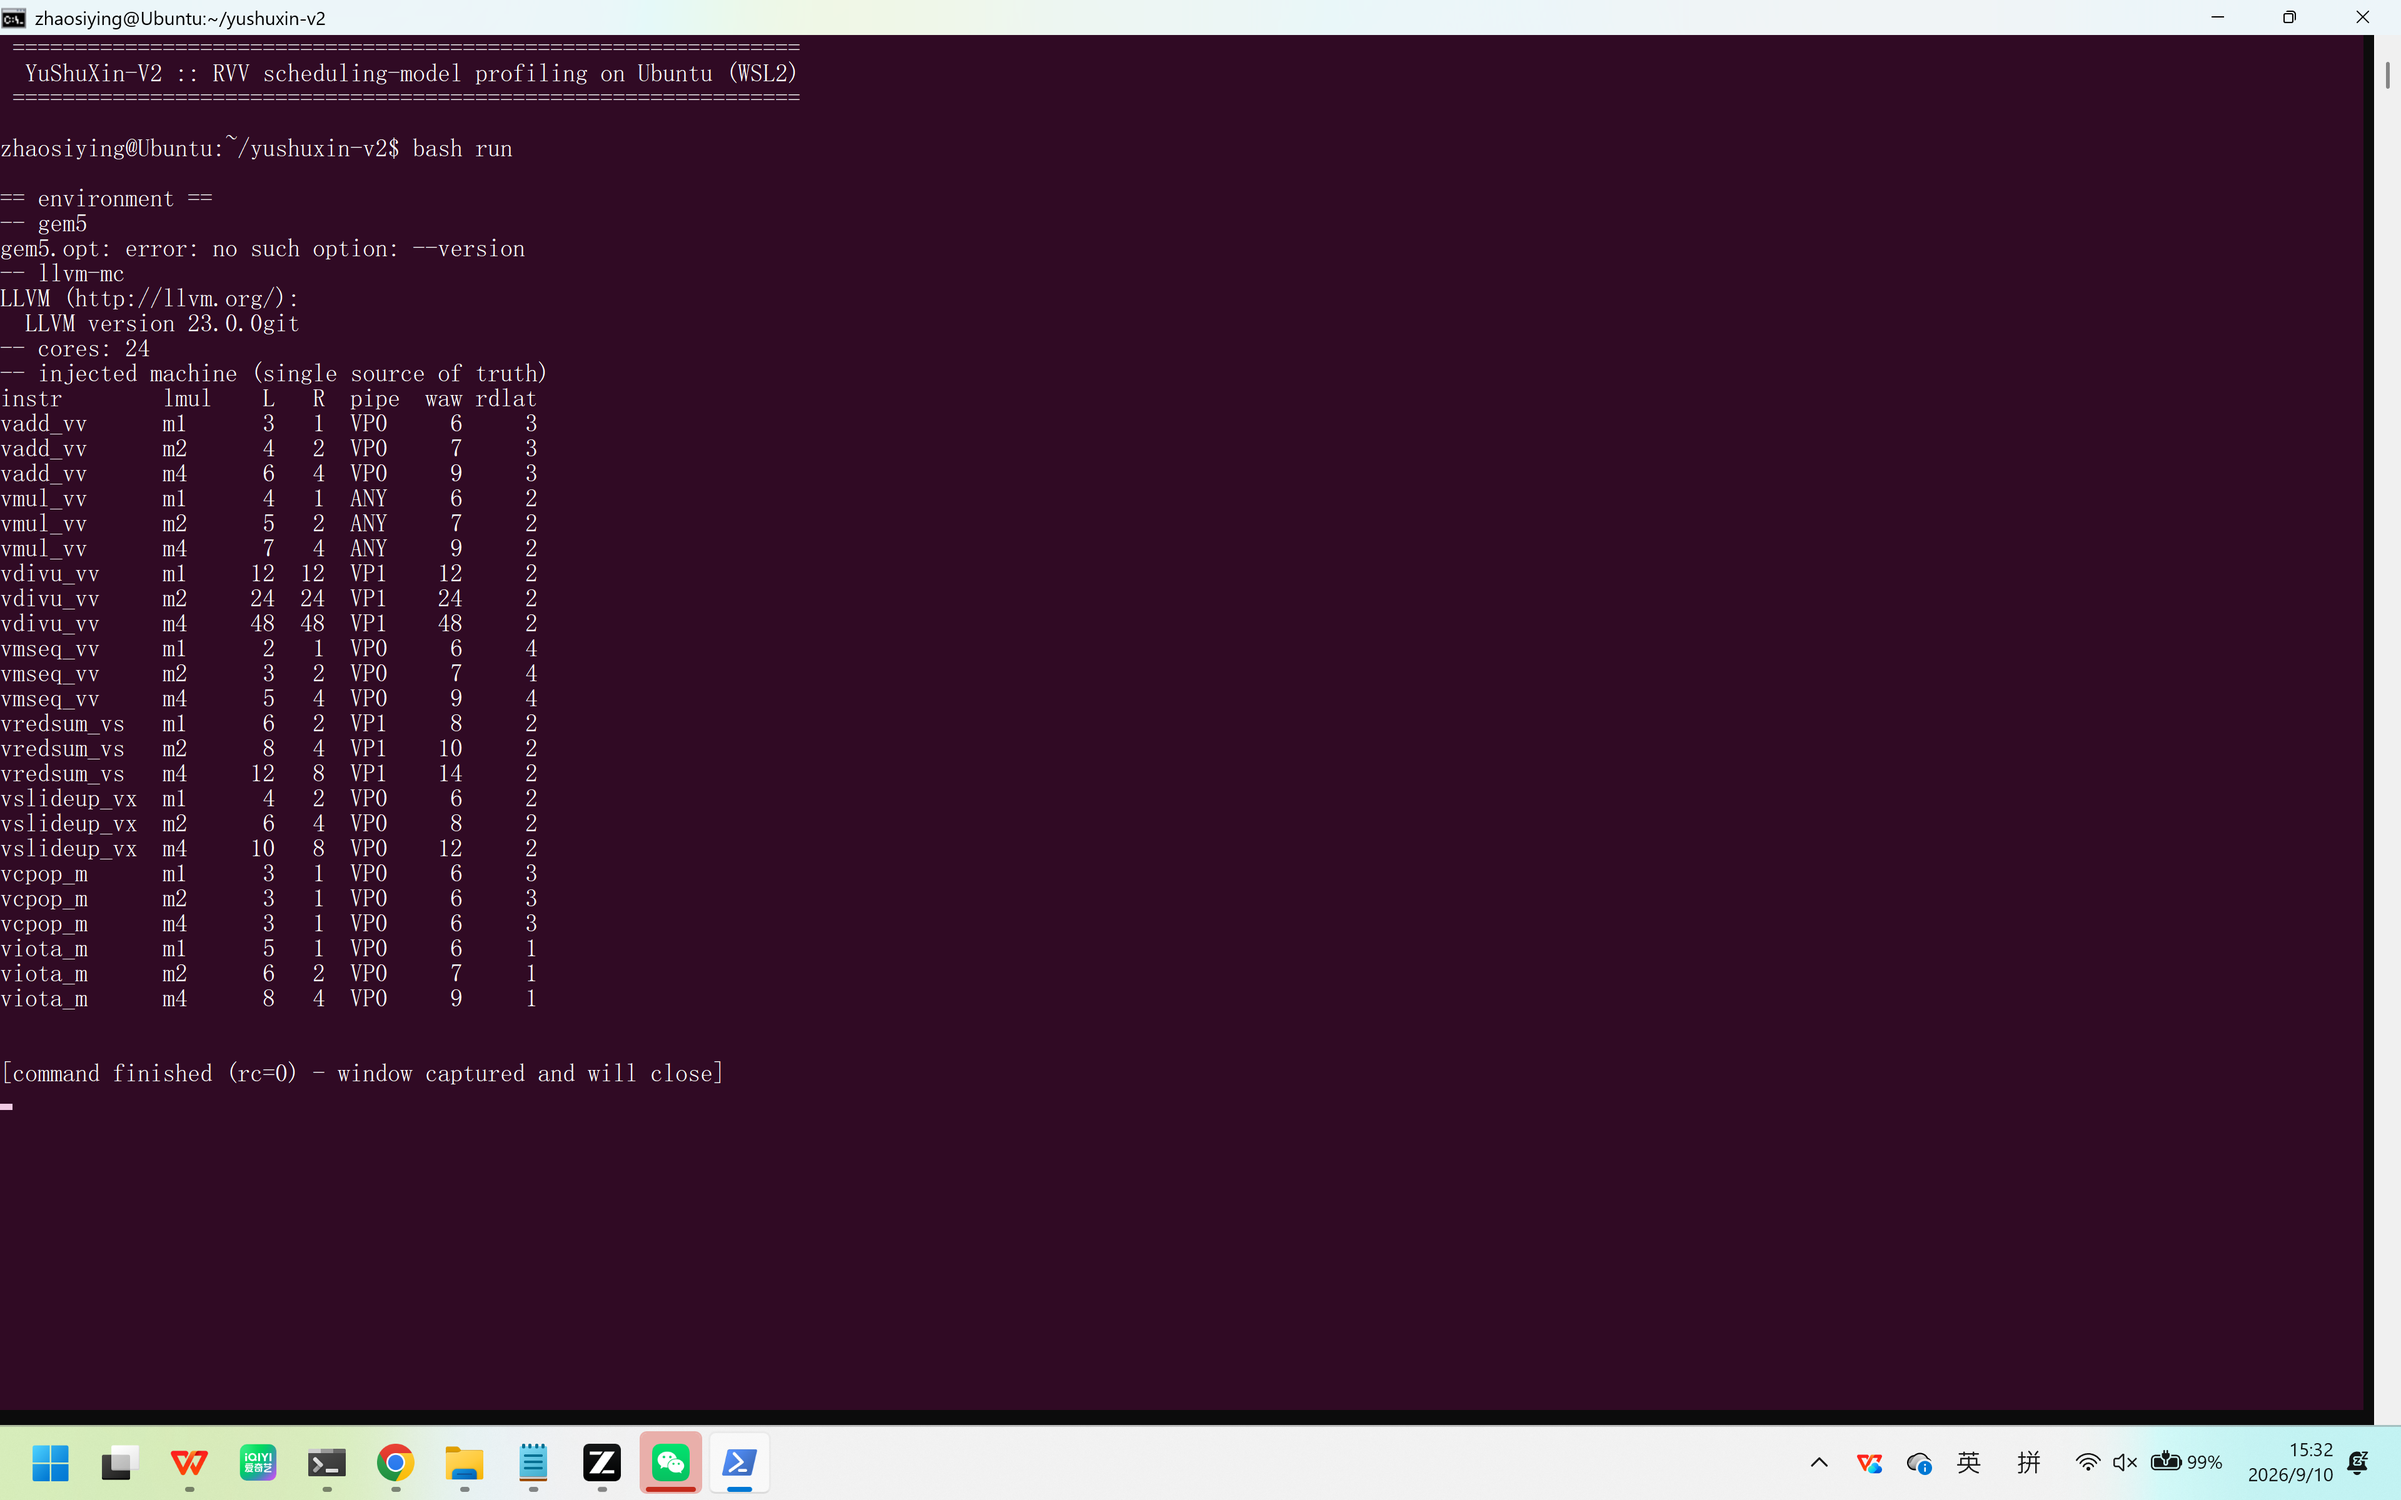
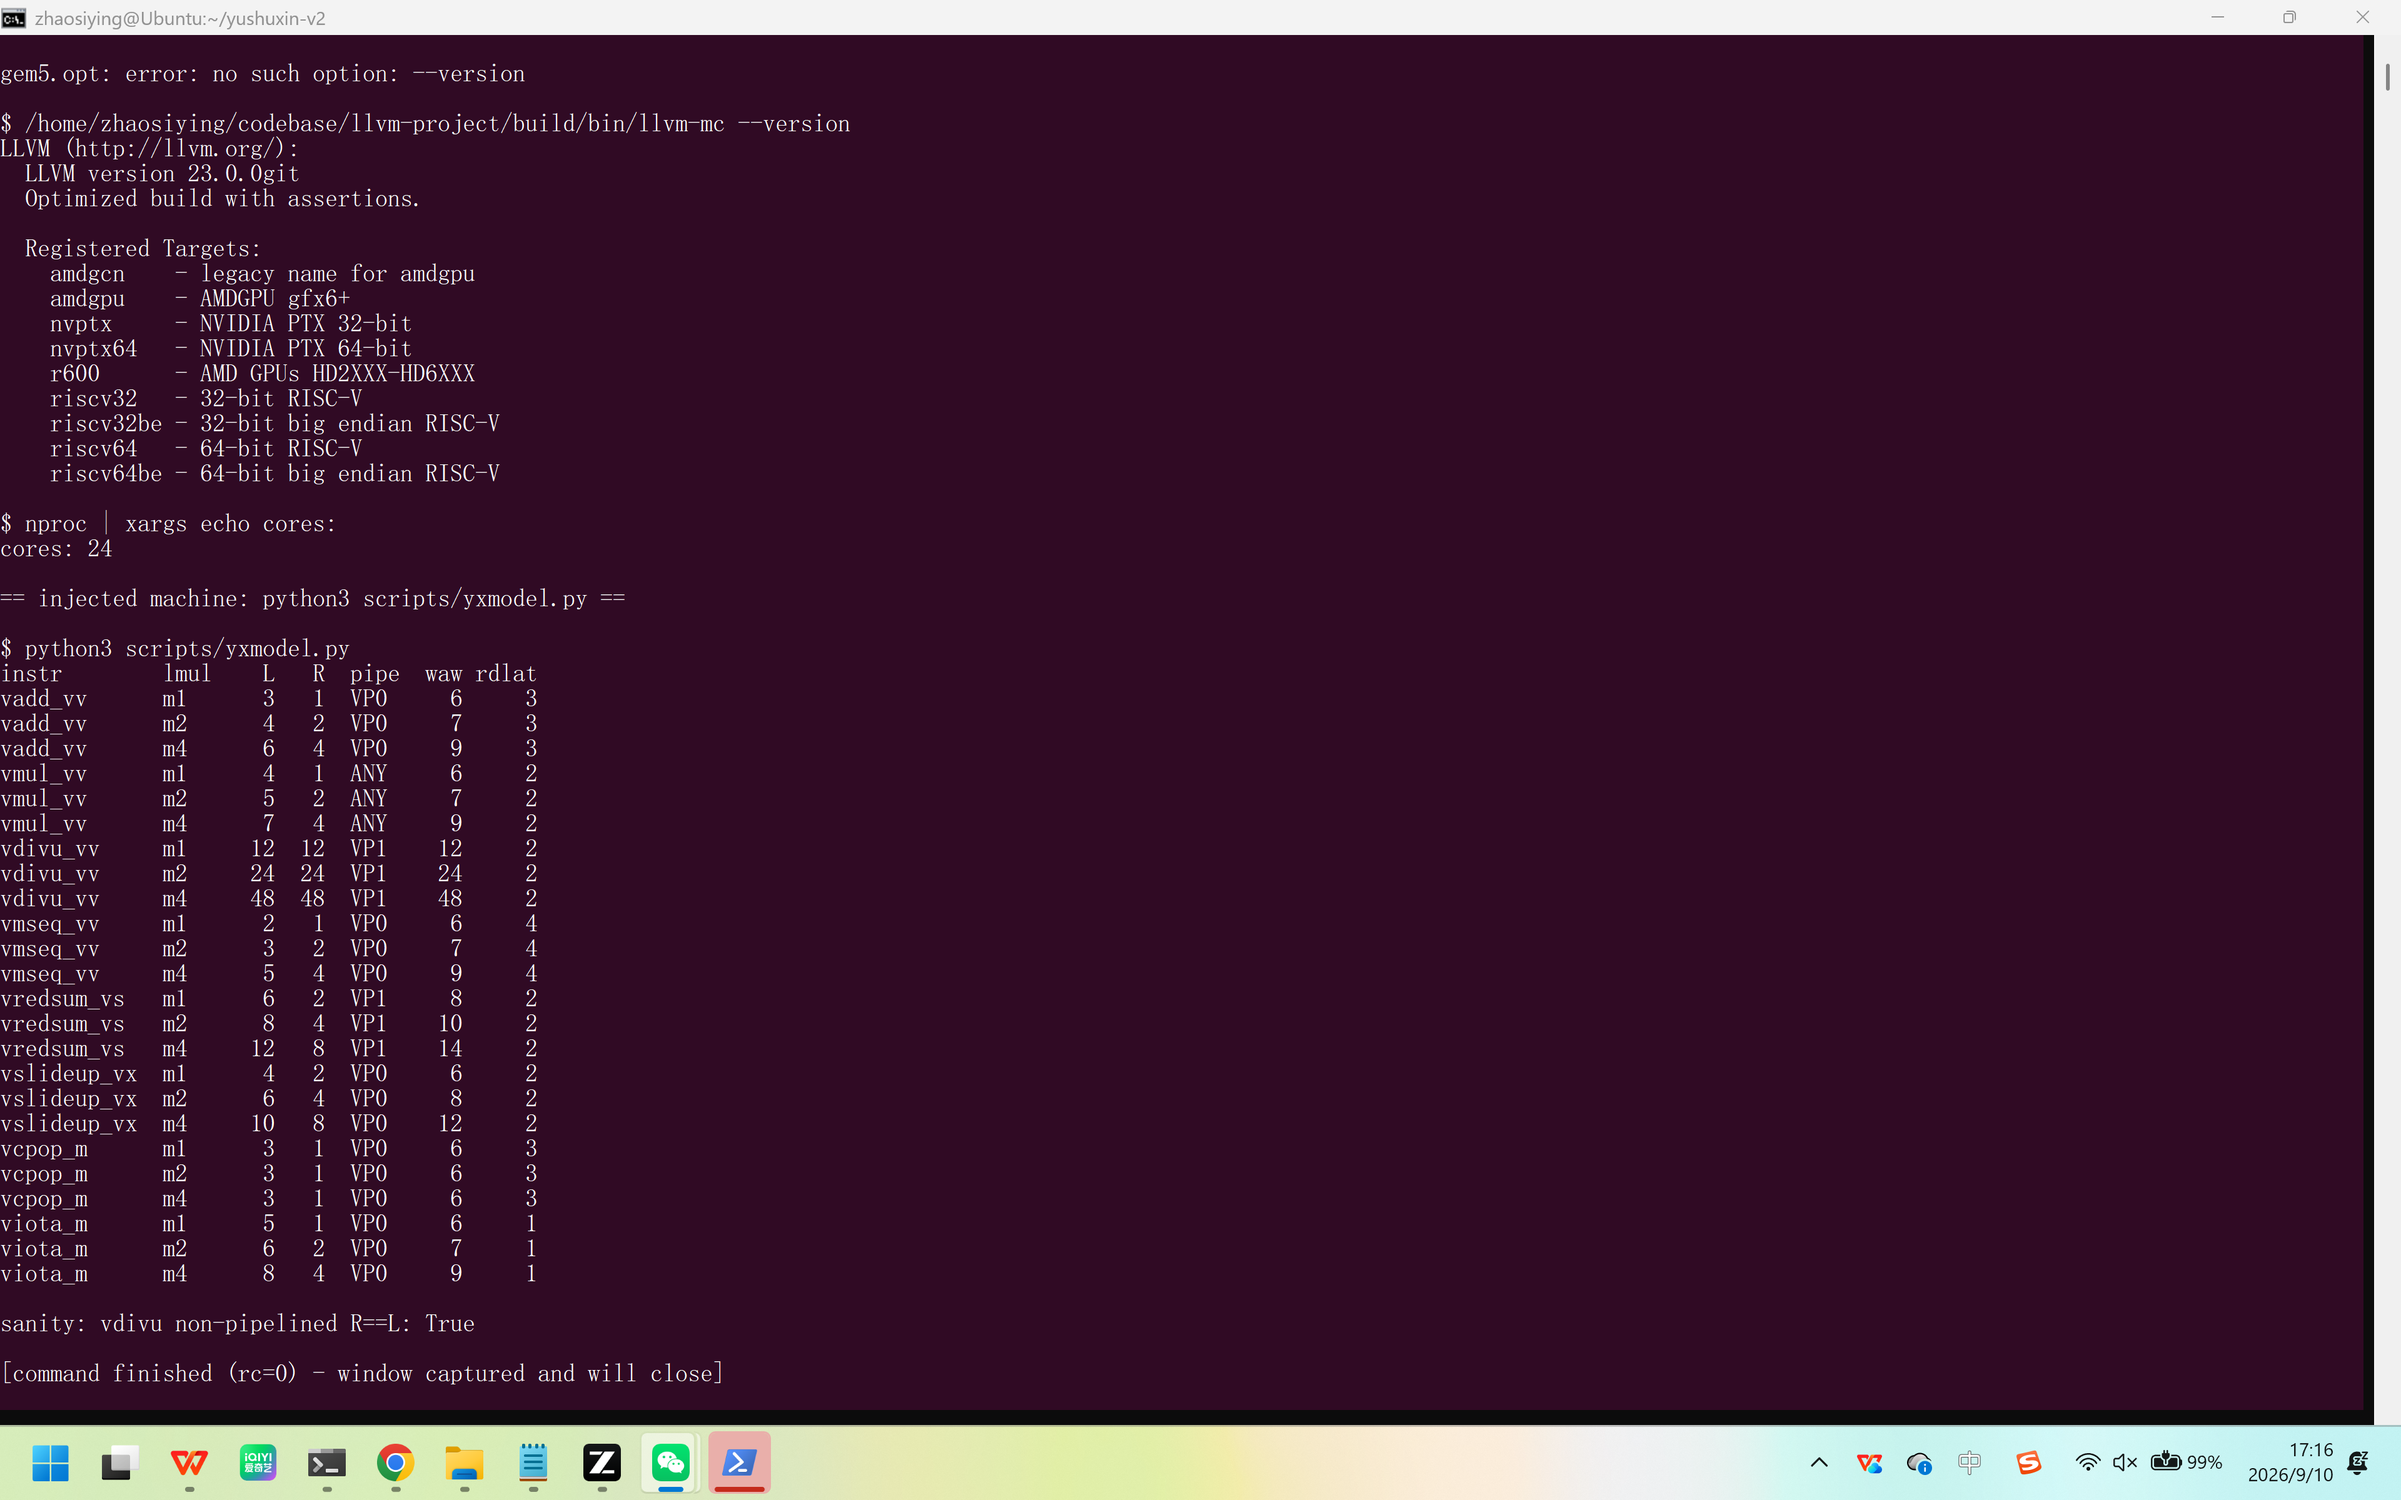
shots: re-capture all 12 with '$ cmd' echo (full llvm-mca command line visible); fix shot_mca conpty scroll (short -instruction-tables output); add e4/e7 matrix scripts; sync td header comment (MicroOpBufferSize=1)

diff --git a/scripts/e7_matrix.py b/scripts/e7_matrix.py
@@ -1,0 +1,30 @@
+#!/usr/bin/env python3
+"""Print the E7 36-pair mixed-stream verdict matrix (slope per pair @m1)."""
+import glob, json
+from collections import defaultdict
+
+mix = defaultdict(list)
+for f in sorted(glob.glob('experiments/e07-*-m1-*/trace.json')):
+    t = json.load(open(f)); m = t['meta']; e = t['entries']
+    if any(x['cycle'] is None for x in e):
+        continue
+    mix[(m['a'], m['b'])].append((m['pairs'], e[-1]['cycle'] - e[0]['cycle']))
+INS = ["vadd_vv", "vmul_vv", "vdivu_vv", "vmseq_vv",
+       "vredsum_vs", "vslideup_vx", "vcpop_m", "viota_m"]
+R = {'vadd_vv': 1, 'vmul_vv': 1, 'vdivu_vv': 12, 'vmseq_vv': 4,
+     'vredsum_vs': 2, 'vslideup_vx': 4, 'vcpop_m': 1, 'viota_m': 1}
+print(f"{'':>8}" + "".join(f"{c[:7]:>9}" for c in INS))
+for a in INS:
+    row = f"{a[:7]:>8}"
+    for b in INS:
+        v = mix.get((a, b))
+        if not v:
+            row += f"{'-':>9}"; continue
+        p, d = v[0]
+        slope = d / p
+        par = slope <= max(R[a], R[b]) + 0.5
+        ser = slope >= R[a] + R[b] - 0.5
+        tag = 'P' if par and not ser else ('S' if ser else 'm')
+        row += f"{slope:>7.1f}{tag}"
+    print(row)
+print("\nP=parallel(max R)  S=serial(Ra+Rb)  m=partial")

diff --git a/scripts/e4_matrix.py b/scripts/e4_matrix.py
@@ -1,0 +1,21 @@
+#!/usr/bin/env python3
+"""Print the E4 cross-class RAW matrix (dep - ctrl) at m1 from real traces."""
+import glob, json, sys
+from collections import defaultdict
+
+k0 = defaultdict(dict)
+for f in sorted(glob.glob('experiments/e04-*-m1-k0-*/trace.json')):
+    t = json.load(open(f)); m = t['meta']; e = t['entries']
+    if any(x['cycle'] is None for x in e):
+        continue
+    k0[(m['producer'], m['consumer'])]['ctrl' if m['control'] else 'dep'] = \
+        e[-1]['cycle'] - e[0]['cycle']
+INS = ["vadd_vv", "vmul_vv", "vdivu_vv", "vmseq_vv",
+       "vredsum_vs", "vslideup_vx", "vcpop_m", "viota_m"]
+print("        " + "".join(f"{c[:7]:>9}" for c in INS))
+for p in INS:
+    row = f"{p[:7]:>8}"
+    for c in INS:
+        v = k0.get((p, c), {})
+        row += f"{(v['dep']-v.get('ctrl',1)):>9}" if 'dep' in v else f"{'-':>9}"
+    print(row)
